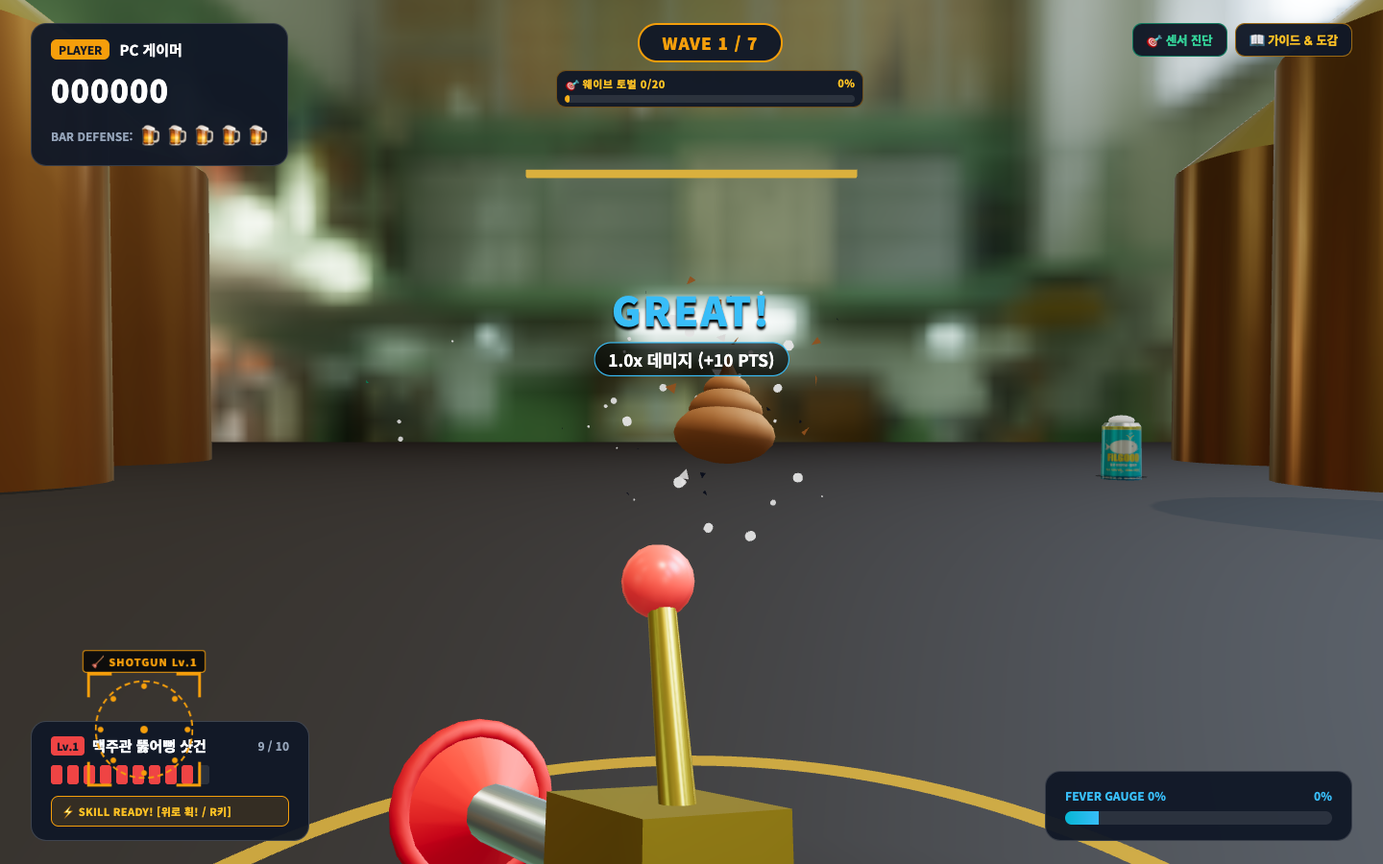
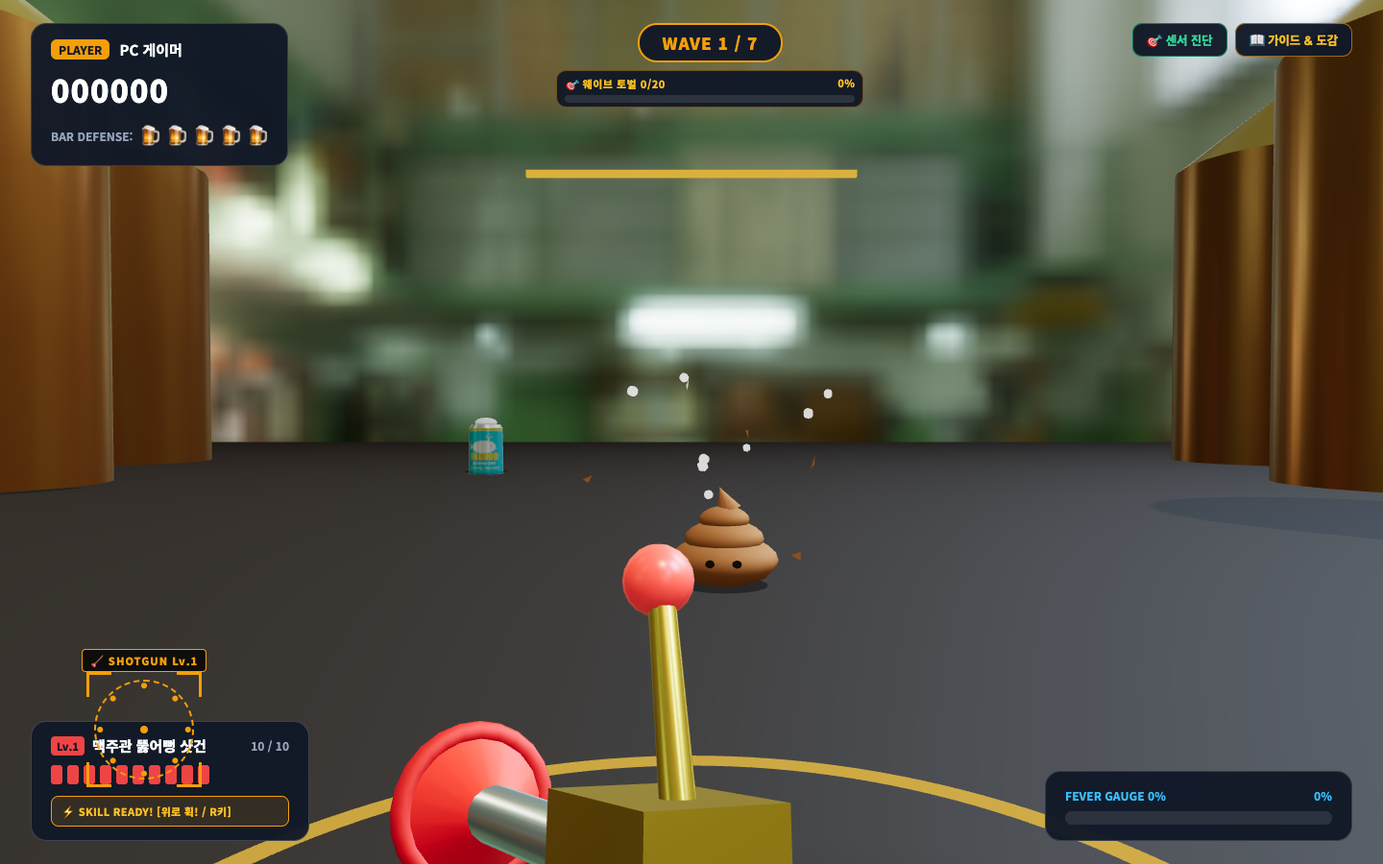
docs(game): describe the new coolers, floor shells, warning band and hit flash
Plan: 2026-11-05-playtest-visual-feedback
Phase: P03-docs-and-verify
Task: T01-docs-and-capture

- Sync the guide, docs and monster studio with the final behaviour
- Refresh only the affected screenshots and guard against the old wording

diff --git a/docs/monster-studio.html b/docs/monster-studio.html
@@ -202,49 +202,89 @@
         const billboard = new THREE.Mesh(billboardGeo, billboardMat);
         billboard.position.y = 0.10;
         g.add(billboard);
-      } else if (kind === 'boss') {
-        const r = 0.88;
-        const h = 1.8;
-        const bodyMat = new THREE.MeshStandardMaterial({ color: 0x334155, metalness: 0.82, roughness: 0.28 });
-        const panelTex = loadLabelTex('boss');
-        const panelMat = new THREE.MeshStandardMaterial({ map: panelTex, metalness: 0.45, roughness: 0.3 });
+      } else if (kind === 'boss' || kind === 'boss-king') {
+        // 게임 모델(TargetModels3D.ts)과 같은 치수: 세로로 긴 몸통 앞면에 탭, 소형은 은색 1구, 대왕은 검정 3구와 왕관.
+        const isKing = kind === 'boss-king';
+        const W = 1.3, H = 1.75, D = 1.2;
+        const cy = 0;
+        const floorY = cy - H / 2;
+        const bodyMat = new THREE.MeshStandardMaterial(isKing
+          ? { color: 0x17191d, metalness: 0.55, roughness: 0.42 }
+          : { color: 0xc4cad2, metalness: 0.75, roughness: 0.32 });
+        const topMat = new THREE.MeshStandardMaterial({ color: 0x3a4048, metalness: 0.6, roughness: 0.4 });
+        const body = new THREE.Mesh(new THREE.BoxGeometry(W, H, D), [bodyMat, bodyMat, topMat, bodyMat, bodyMat, bodyMat]);
+        body.position.y = cy;
+        g.add(body);
 
-        const cabinet = new THREE.Mesh(
-          new THREE.BoxGeometry(r * 1.8, h * 0.82, r * 1.4),
-          [bodyMat, bodyMat, capMat, bodyMat, panelMat, bodyMat]
-        );
-        g.add(cabinet);
-
-        const grille = new THREE.Mesh(new THREE.BoxGeometry(r * 1.5, h * 0.22, 0.06), new THREE.MeshStandardMaterial({ color: 0x050810, roughness: 0.95 }));
-        grille.position.set(0, -h * 0.24, r * 0.71);
-        g.add(grille);
-
-        const tower = new THREE.Mesh(new THREE.CylinderGeometry(0.2, 0.24, 0.58, 20), capMat);
-        tower.position.set(0, h * 0.41 + 0.28, 0);
-        g.add(tower);
-
-        [-0.15, 0.15].forEach((tapX) => {
-          const tapSpout = new THREE.Mesh(new THREE.CylinderGeometry(0.038, 0.038, 0.26, 12), goldMat);
-          tapSpout.rotation.x = Math.PI / 2;
-          tapSpout.position.set(tapX, h * 0.41 + 0.4, 0.18);
-          g.add(tapSpout);
-
-          const tapHandle = new THREE.Mesh(
-            new THREE.CylinderGeometry(0.028, 0.02, 0.3, 12),
-            new THREE.MeshStandardMaterial({ color: 0xf59e0b, metalness: 0.7, roughness: 0.2 })
-          );
-          tapHandle.position.set(tapX, h * 0.41 + 0.56, 0.24);
-          tapHandle.rotation.x = -0.22;
-          g.add(tapHandle);
+        const slitMat = new THREE.MeshStandardMaterial({ color: 0x050608, roughness: 0.9 });
+        [W / 2 + 0.008, -W / 2 - 0.008].forEach((x) => {
+          [cy + H / 2 - 0.14, floorY + 0.5].forEach((top) => {
+            for (let i = 0; i < 5; i++) {
+              const slit = new THREE.Mesh(new THREE.BoxGeometry(0.015, 0.035, D * 0.55), slitMat);
+              slit.position.set(x, top - i * 0.07, 0);
+              g.add(slit);
+            }
+          });
         });
 
-        const wheelMat = new THREE.MeshStandardMaterial({ color: 0x1f2937, roughness: 0.85 });
-        [[-r * 0.75, -r * 0.55], [r * 0.75, -r * 0.55], [-r * 0.75, r * 0.55], [r * 0.75, r * 0.55]].forEach(([wx, wz]) => {
-          const wheel = new THREE.Mesh(new THREE.CylinderGeometry(0.08, 0.08, 0.09, 14), wheelMat);
-          wheel.rotation.z = Math.PI / 2;
-          wheel.position.set(wx, -h * 0.41 - 0.05, wz);
-          g.add(wheel);
+        const leverMat = isKing ? goldMat : new THREE.MeshStandardMaterial({ color: 0x0a0a0a, metalness: 0.1, roughness: 0.5 });
+        const k = isKing ? 1.3 : 1.6;
+        const tapY = cy + 0.46;
+        (isKing ? [-0.34, 0, 0.34] : [0]).forEach((x) => {
+          const collar = new THREE.Mesh(new THREE.CylinderGeometry(0.06 * k, 0.06 * k, 0.1 * k, 14), capMat);
+          collar.rotation.x = Math.PI / 2;
+          collar.position.set(x, tapY, D / 2 + 0.05 * k);
+          g.add(collar);
+          const tapBody = new THREE.Mesh(new THREE.CylinderGeometry(0.055 * k, 0.05 * k, 0.2 * k, 14), capMat);
+          tapBody.position.set(x, tapY - 0.01 * k, D / 2 + 0.14 * k);
+          g.add(tapBody);
+          const spout = new THREE.Mesh(new THREE.CylinderGeometry(0.03 * k, 0.022 * k, 0.16 * k, 10), capMat);
+          spout.position.set(x, tapY - 0.18 * k, D / 2 + 0.14 * k);
+          g.add(spout);
+          const lever = new THREE.Mesh(new THREE.CylinderGeometry(0.036 * k, 0.024 * k, 0.34 * k, 12), leverMat);
+          lever.position.set(x, tapY + 0.24 * k, D / 2 + 0.12 * k);
+          lever.rotation.x = -0.22;
+          g.add(lever);
         });
+
+        const trayY = floorY + 0.2;
+        const tray = new THREE.Mesh(new THREE.BoxGeometry(W * 0.86, 0.16, 0.42), new THREE.MeshStandardMaterial({ color: 0x17191d, metalness: 0.55, roughness: 0.42 }));
+        tray.position.set(0, trayY, D / 2 + 0.2);
+        g.add(tray);
+        const grateMat = new THREE.MeshStandardMaterial({ color: 0x9aa3ad, metalness: 0.8, roughness: 0.35 });
+        for (let i = 0; i < 9; i++) {
+          const bar = new THREE.Mesh(new THREE.BoxGeometry(W * 0.74, 0.012, 0.018), grateMat);
+          bar.position.set(0, trayY + 0.085, D / 2 + 0.03 + i * 0.043);
+          g.add(bar);
+        }
+
+        const frame = new THREE.Mesh(new THREE.BoxGeometry(0.66, 0.26, 0.01), isKing ? goldMat : capMat);
+        frame.position.set(0, cy - 0.2, D / 2 + 0.006);
+        g.add(frame);
+        const logoTex = texLoader.load('/textures/labels/ob-logo.jpg');
+        logoTex.colorSpace = THREE.SRGBColorSpace;
+        const plate = new THREE.Mesh(new THREE.PlaneGeometry(0.6, 0.2), new THREE.MeshStandardMaterial({ map: logoTex, roughness: 0.5 }));
+        plate.position.set(0, cy - 0.2, D / 2 + 0.012);
+        g.add(plate);
+
+        if (isKing) {
+          const R = 0.42, crownY = floorY + H + 0.08;
+          const band = new THREE.Mesh(new THREE.CylinderGeometry(R, R * 0.92, 0.16, 16), goldMat);
+          band.position.y = crownY;
+          g.add(band);
+          const gemMat = new THREE.MeshStandardMaterial({ color: 0xef4444, emissive: 0xef4444, emissiveIntensity: 0.6, roughness: 0.25 });
+          for (let i = 0; i < 8; i++) {
+            const a = (i / 8) * Math.PI * 2;
+            const spike = new THREE.Mesh(new THREE.ConeGeometry(0.095, 0.3, 6), goldMat);
+            spike.position.set(Math.sin(a) * R * 0.9, crownY + 0.22, Math.cos(a) * R * 0.9);
+            g.add(spike);
+            if (i % 2 === 0) {
+              const gem = new THREE.Mesh(new THREE.SphereGeometry(0.05, 10, 10), gemMat);
+              gem.position.set(Math.sin(a) * (R + 0.01), crownY, Math.cos(a) * (R + 0.01));
+              g.add(gem);
+            }
+          }
+        }
       }
 
       return g;
@@ -383,7 +423,8 @@
       obi: { badge: 'TANK · 지상 바운스', name: '오비 라거 (OB Lager)', hp: '2', speed: '3.0 m/s', score: '+70점', color: '#f59e0b' },
       hanmac: { badge: 'ELITE · 지상 바운스', name: '한맥 (HANMAC)', hp: '2', speed: '3.2 m/s', score: '+90점', color: '#047857' },
       bottle: { badge: 'HEAVY · 투명 유리병', name: '카스 프레시 병맥주 (Cass Fresh Bottle)', hp: '3', speed: '2.3 m/s', score: '+160점', color: '#004b91' },
-      boss: { badge: 'BOSS · 보스 레이드', name: '업소용 생맥주 냉각기 (Boss)', hp: '40', speed: '1.10 m/s', score: '+1,500점', color: '#ef4444' }
+      boss: { badge: 'BOSS · 보스 레이드', name: '업소용 생맥주 냉각기 (Boss)', hp: '70~90', speed: '0.85 m/s', score: '+1,500점', color: '#ef4444' },
+      'boss-king': { badge: 'BOSS · 7웨이브', name: '대왕 냉각기 (King)', hp: '200', speed: '0.85 m/s', score: '+1,500점', color: '#fbbf24' }
     };
 
     const ITEM_SPECS = {
@@ -401,8 +442,8 @@
       activeModel.rotation.y = kind === 'bottle' ? 0.0 : 0.35;
       scene.add(activeModel);
 
-      if (kind === 'boss') {
-        camera.position.set(0, 0.6, 5.2);
+      if (kind === 'boss' || kind === 'boss-king') {
+        camera.position.set(0, 0.1, 6.6);
       } else {
         camera.position.set(0, 0.4, 3.6);
       }

diff --git a/src/pc/components/GuideModal.tsx b/src/pc/components/GuideModal.tsx
@@ -92,7 +92,7 @@ const MONSTER_DETAILS: Record<
   boss: {
     role: '보스 · 업소용 냉각기 (3·5·7웨이브, 마지막에 대왕 냉각기)',
     speedText: '0.85 m/s (10m 정지, 좌우 이동)',
-    description: `스테인리스 캐비닛과 듀얼 골드 탭을 장착한 보스. 3웨이브는 1대, 5웨이브는 2대, 7웨이브는 2대 + 대왕 냉각기(1.5배 크기)가 등장합니다. 좌우로 움직이며 체력이 ${GAME_TUNING.boss.summonHpThresholds.map((v) => Math.round(v * 100)).join('% / ')}% 아래로 내려갈 때마다 부하를 소환하고(${GAME_TUNING.boss.summonCount}마리씩 필드 ${GAME_TUNING.boss.minionDrop.minRadiusM}~${GAME_TUNING.boss.minionDrop.maxRadiusM}m에 위에서 떨어집니다. 시간이 아니라 체력 기준이라 빨리 잡아도 소환을 봅니다) 투사체를 쏩니다. 넉백·기절·둔화가 통하지 않습니다.`,
+    description: `앞면에 탭이 달린 업소용 냉각기 보스. 소형은 은색 1구, 대왕은 검정 3구에 금색 왕관을 썼습니다. 3웨이브는 1대, 5웨이브는 2대, 7웨이브는 2대 + 대왕 냉각기(1.5배 크기)가 등장합니다. 좌우로 움직이며 체력이 ${GAME_TUNING.boss.summonHpThresholds.map((v) => Math.round(v * 100)).join('% / ')}% 아래로 내려갈 때마다 부하를 소환하고(${GAME_TUNING.boss.summonCount}마리씩 필드 ${GAME_TUNING.boss.minionDrop.minRadiusM}~${GAME_TUNING.boss.minionDrop.maxRadiusM}m에 위에서 떨어집니다. 시간이 아니라 체력 기준이라 빨리 잡아도 소환을 봅니다) 투사체를 쏩니다. 넉백·기절·둔화가 통하지 않습니다.`,
     tip: '보스 몸통을 맞혀도 피버가 차지 않습니다! 소환된 부하를 잡아 피버와 아이템을 모으세요. 7웨이브는 냉각기와 대왕을 모두 잡아야 승리합니다.',
     imageSrc: '/docs/screens/monster-06-boss-dispenser.png',
   },
@@ -500,7 +500,7 @@ export const GuideModal: React.FC<GuideModalProps> = ({
                 <div style={{ fontSize: '13px', color: '#e2e8f0', lineHeight: '1.6' }}>
                   • <strong>100% 비례 슬림 게이지 체력바:</strong> 모든 몬스터는 100% 비례 연속 게이지 바로 체력이 표시됩니다. 1HP 캔(필굿, 카스라이트)도 스쳐 맞았을 때(hp &lt; maxHp) 즉시 머리 위에 잔여 체력바가 나타납니다!<br />
                   • <strong>🌟 황금 캔 (보너스 타겟):</strong> 웨이브마다 1회 원경을 고속 횡단! 격추 시 +{Math.round(500 * GAME_TUNING.score.scale)}점과 함께 액티브 스킬 1회 충전, 피버 게이지 +{GAME_TUNING.goldenCan.feverGain}%를 받습니다.<br />
-                  • <strong>💩 똥 투사체 요격:</strong> 한맥과 보스가 쏘는 갈색 똥 덩어리(아이템과 달리 빛나지 않고 맞으면 체력이 깎입니다)를 공중에서 사격하면 몬스터처럼 터지며 요격음과 점수를 얻습니다. 놓쳐서 방어선을 통과하면 바 생명이 1 차감됩니다.
+                  • <strong>💩 똥 투사체 요격:</strong> 한맥과 보스가 쏘는 갈색 똥 덩어리(아이템과 달리 빛나지 않고 맞으면 체력이 깎입니다)가 바닥을 따라 다가올 때 사격하면 몬스터처럼 터지며 요격음과 점수를 얻습니다. 놓쳐서 방어선을 통과하면 바 생명이 1 차감됩니다.
                 </div>
               </div>
 

diff --git a/tests/docs-sync.test.ts b/tests/docs-sync.test.ts
@@ -17,6 +17,8 @@ const FORBIDDEN: { pattern: RegExp; why: string }[] = [
   { pattern: /쉴드를 두른|방패가 풀립니다|대왕 쉴드|쉴드를 풀/, why: 'the king shield was removed' },
   { pattern: /붉은 포탄|빛나는 구|거품 투사체|거품\/병뚜껑 투사체/, why: 'enemy shells are brown poop now' },
   { pattern: /8초에서 시작|5초까지 짧아|소환이 빨라져|시간을 끌면 소환/, why: 'boss summons follow boss HP, not a timer' },
+  { pattern: /듀얼 골드 탭|듀얼 탭 레버|크롬 드래프트 타워/, why: 'the coolers have front taps now' },
+  { pattern: /공중에서 (사격|요격)|⚠ 보스 등장/, why: 'shells stay on the floor and the warning is a WARNING band' },
   { pattern: /MISS 페널티 완전 폐지/, why: 'misses now cost ammo and reload time' },
   { pattern: /8초마다 (부하|소환)|부하를 8초마다|4마리를 공유/, why: 'boss summons are HP-driven now, not a shared timer' },
   { pattern: /\+150 PTS|\+100 PTS|\+50 PTS|\+500점|\+1,500점|2배 화력|기본 피해의 3배/, why: 'scores are scaled by GAME_TUNING.score.scale (x0.1) and fever no longer boosts damage' },

diff --git a/docs/비어 크러셔 요구사항 분석서.md b/docs/비어 크러셔 요구사항 분석서.md
@@ -70,11 +70,11 @@
 | :--- | :--- | :--- |
 | **FR-MON-01** | 부채꼴 시야각(반경 28m, -36°~+36°) 전체에서 5종 맥주 몬스터와 보스가 방사형으로 스폰되어 접근해야 한다. 7웨이브에 걸쳐 몬스터 종류가 하나씩 소개되며 섞인다. | Three.js 씬 내 부채꼴 스폰 |
 | **FR-MON-02** | 모든 몬스터 상단에 100% 슬림 연속 체력 게이지 바를 렌더링해야 한다. (단, 1HP 캔은 기본 숨김, 0.5x 피격 등으로 체력이 깎이면 즉시 노출) | 슬림 게이지 바 및 피격 1HP 캔 실시간 노출 |
-| **FR-MON-03** | 3·5·7웨이브는 미니웨이브 후 경고와 함께 냉각기 보스(1대 → 2대 → 2대 + 대왕)가 등장해 전방 10m에 정지하고 좌우로 이동하며, 각 보스가 체력 99·66·33% 아래로 내려갈 때마다 부하 4마리를 소환(시간 기준 아님, 필드 상한 없음)하며, 부하는 필드 6~14m에 위에서 떨어지고 착지 전에는 맞힐 수 없어야 한다. 중간 보스는 처치 후 카드를 거쳐 다음 웨이브로, 마지막 보스전은 모두 처치해야 승리한다. | 보스 10m 정지·이동, 소환, 다중 보스 승리 조건 |
+| **FR-MON-03** | 3·5·7웨이브는 미니웨이브 후 2초 경고(`WARNING` 가로 띠, 빛줄, 경고음)와 함께 냉각기 보스(1대 → 2대 → 2대 + 대왕)가 등장해 전방 10m에 정지하고 좌우로 이동하며, 각 보스가 체력 99·66·33% 아래로 내려갈 때마다 부하 4마리를 소환(시간 기준 아님, 필드 상한 없음)하며, 부하는 필드 6~14m에 위에서 떨어지고 착지 전에는 맞힐 수 없어야 한다. 중간 보스는 처치 후 카드를 거쳐 다음 웨이브로, 마지막 보스전은 모두 처치해야 승리한다. | 보스 10m 정지·이동, 소환, 다중 보스 승리 조건 |
 | **FR-MON-04** | 몬스터 5종은 서로 다른 대응법을 가져야 한다: 필굿(지상 돌격), 카스 라이트(유일한 비행·회피), 오비(방패 0.8초/2.4초, 스킬 관통), 한맥(11m 정지 포격), 병맥주(분열). | `monster-traits` 시나리오 |
 | **FR-GIM-01** | 웨이브 클리어 및 4·6웨이브 중간 킬 수 달성 시 화면 정중앙에 3D 보상 카드 9종 중 중복 없는 무작위 3장을 소환하며, 전장 시간 전체 정지(Combat Freeze, 피버·버프·쿨다운·재장전 포함), 새로 누른 입력만 인정, 0.8초 입력 잠금을 적용해야 한다. 무기 레벨은 웨이브별 상한(1웨이브 Lv.2, 2~4웨이브 Lv.3, 5웨이브부터 MAX)을 둔다. | Combat Freeze 발동 및 Shoot-to-Select |
 | **FR-GIM-02** | 황금 캔 출현 시 맑은 코인 차임 사운드 및 PC 화면 골드 네온 테두리 플래시를 출력해야 한다. | 청각·시각 즉각 알림 |
-| **FR-GIM-03** | 적 투사체(갈색 똥 모양, 발사 순간 분출 연출)를 요격하면 성공 시 투사체가 몬스터처럼 파티클과 함께 터지고 요격음이 재생되어야 한다(별도 배너 없음). | 요격 전용 피드백 제공 |
+| **FR-GIM-03** | 적 투사체(갈색 똥 모양, 발사 순간 분출 연출, 바닥에 붙어 위아래로 늘고 줄며 접근)를 요격하면 성공 시 투사체가 몬스터처럼 파티클과 함께 터지고 요격음이 재생되어야 한다(별도 배너 없음). | 요격 전용 피드백 제공 |
 | **FR-GIM-04** | 일반 몬스터 처치 시 4%(보스 소환 부하 20%) 기본 확률로 바닥에 펍 아이템 4종(파워샷/빅스코프/프리즈/바수리)을 즉시 드롭해야 한다. (`lucky_drop` 카드 시 2배/3배/4배 영구 증가) | 몬스터 처치 시 드롭 확률 및 카드 시너지 |
 
 ---

diff --git a/docs/몬스터_도감_설명서.md b/docs/몬스터_도감_설명서.md
@@ -56,10 +56,11 @@
 
 #### 6. 업소용 생맥주 냉각기 보스 (Boss Dispenser) — *3·5·7웨이브 보스전*
 ![업소용 생맥주 냉각기 보스](./screens/monster-06-boss-dispenser.png)
+![대왕 냉각기](./screens/monster-06b-boss-king.png)
 ![냉각기 보스 실전 화면](./screens/play-wave5-boss-cooler.png)
 - **타입**: 지상 캐비닛 보스 (Ground Boss, 고도 `1.15m`, 1.65배 거대 스케일)
-- **외형**: 브러시드 스테인리스 헤어라인 전면 패널, 그린 디지털 LED(-4.0°C / 2.4 BAR), 크롬 드래프트 타워, 듀얼 골드 탭 추출구 및 오렌지 레버, 하단 4개 캐스터 휠
-- **보스전 구성**: 미니웨이브를 처치하면 `⚠ 보스 등장!` 경고와 함께 등장합니다.
+- **외형**: 실제 업소용 순간냉각기처럼 세로로 긴 몸통 앞면에 탭, 아래에 검정 물받이, 옆면에 통풍구, 앞면에 OB 로고 이름판. 소형 냉각기는 은색 몸통에 검정 레버 탭 1구, 대왕 냉각기는 검정 몸통에 금색 레버 탭 3구와 금색 왕관
+- **보스전 구성**: 미니웨이브를 처치하면 경고음과 함께 빛줄이 훑고 지나가는 `WARNING` 가로 띠가 2초 동안 나타났다 사라지며 등장합니다.
   | 웨이브 | 구성 | 체력 | 소환 부하 |
   | :---: | :--- | :--- | :--- |
   | 3 | 냉각기 1대 | 75 | 오비, 카스 라이트, 한맥 |
@@ -151,6 +152,6 @@
 1. **100% 슬림 연속 체력 게이지 바 확인**: 모든 몬스터 머리 위에 100% 비례 슬림 게이지 바가 표시됩니다. 스쳐 맞은 1HP 캔도 즉시 체력바가 나타나므로 잔여 체력을 확인하고 마무리 사격을 가하세요. 남은 체력과 기절(`⚡STUN`) / 둔화(`❄SLOW`) 상태를 확인하고 점사하세요.
 2. **🌟 황금 캔(Golden Can) 필살 저격**: 웨이브마다 1회 고속 횡단하는 황금 캔(스폰 시 코인 차임 사운드 & 골드 네온 테두리)을 격추하여 **+50점 보너스**, **스킬 1회 충전**, **피버 +30%**를 노리세요.
 ![황금 캔 출현 및 골드 네온 테두리 화면](./screens/play-golden-can-detected.png)
-3. **💩 똥 투사체 요격**: 한맥과 보스가 날리는 갈색 똥 투사체를 공중에서 요격(몬스터처럼 터지며 요격음)하여 방어선 생명(맥주잔 5개)을 보존하세요.
+3. **💩 똥 투사체 요격**: 한맥과 보스가 날리는 바닥을 따라 다가오는 갈색 똥 투사체를 요격(몬스터처럼 터지며 요격음)하여 방어선 생명(맥주잔 5개)을 보존하세요.
 4. **홀드 자동 연발과 피버 활용**: 누르고 쏘는 자동 연발은 피해가 줄어드니, 정확한 탭 사격으로 PERFECT와 처치를 쌓아 피버를 채우고 4초 무한 연사로 웨이브를 돌파하세요.
 4. **무기별 전술 운용**: 몬스터의 밀집도와 비행 형태에 따른 3종 무기 진화 및 스킬 공략은 [docs/무기_및_스킬_가이드.md](./무기_및_스킬_가이드.md)를 참고하세요.

diff --git a/docs/비어 크러셔 상세설계서.md b/docs/비어 크러셔 상세설계서.md
@@ -568,6 +568,7 @@ export class WeaponSystem {
    - `BeerCrusherEngine.spawnGoldenCanTarget` 실행 시 `SoundSynthesizer.playGoldenCanChime()` 및 화면 사방 골드 네온 플래시를 동기화합니다.
 2. **투사체 요격**:
    - `shootAt`에서 `target.isProjectile === true`인 타겟 적중 시 요격 이벤트 플래그(`interceptedProjectile: true`)를 반환하여 투사체를 파티클과 함께 폭발시키고 요격음을 재생합니다(배너 없음).
+   - 투사체는 바닥 높이(`GAME_TUNING.shell.baseY`)에 있고 고정 화면 높이(`customNormY`)를 쓰지 않아, 판정 위치가 보이는 모델을 따라갑니다.
 3. **보상 카드 9종 (Shoot-to-Select) & Combat Freeze**:
    - 웨이브 클리어 및 4·6웨이브 중간 킬 수(22/26) 달성 시 전장 전체에 시간 정지(Combat Freeze)를 발동합니다. `update`는 피버·버프·재장전·스폰/소환 타이머·몬스터 기절/둔화·한맥 발사 타이머를 실제 경과 시간만큼 뒤로 밀고(`freezeTimers`) 일찍 반환하며, 스킬 쿨다운은 `weaponSystem.update`를 건너뛰어 멈춥니다. 이 동안 `activateFever`/`triggerWeaponSkill`도 막힙니다.
    - 카드는 `buildRewardCardPool()`이 만든 풀(무기 상한·최대 스택·체력 가득·피버 상태 반영)에서 `dropRng`로 중복 없이 3장을 뽑습니다(`weapon_level_up`, `rapid_reload`, `bar_repair`(+2), `fever_boost`(+50), `lucky_drop`, `damage_up`, `skill_cooldown`, `fever_extend`, `hit_zone_up`). 풀이 3장 미만이면 수리·부스터·장전으로 채웁니다.

diff --git a/docs/무기_및_스킬_가이드.md b/docs/무기_및_스킬_가이드.md
@@ -183,7 +183,7 @@
   - **스폰 즉각 감지 알림**: 출현 순간 맑은 코인 차임 사운드(`playGoldenCanChime`, 1318Hz ➔ 1661Hz)와 함께 PC 화면 테두리에 황금빛 네온 테두리 알림이 점등되어 시야가 좁아진 플레이어도 놓치지 않고 포착할 수 있습니다.
   - 격추 성공 시 **+50점 보너스**와 **스킬 1회 충전, 피버 게이지 +30%**를 받습니다(피버를 한 번에 채우지는 않습니다).
 - **💩 똥 투사체 요격 (Interception)**:
-  - 한맥과 보스가 플레이어 방어선을 향해 날리는 갈색 똥 투사체(발사 순간 갈색 분출이 나오고, 아이템과 달리 빛나지 않습니다)를 공중에서 사격하여 격추할 수 있습니다.
+  - 한맥과 보스가 플레이어 방어선을 향해 날리는 갈색 똥 투사체(발사 순간 갈색 분출이 나오고, 아이템과 달리 빛나지 않습니다)가 바닥을 따라 다가올 때 사격하여 격추할 수 있습니다.
   - 요격 성공 시 투사체가 몬스터처럼 파티클과 함께 터지고 요격 전용 SFX가 재생됩니다(별도 배너 없음). 점수는 그대로 오릅니다.
 - **🔥 4초 피버 (무제한 탄창 & 명중 점수 1.5배)**:
   - 피버 발동 즉시 현재 잔탄 수(0발)나 재장전 딜레이를 무시하고 **즉시 탄창이 100% 강제 리필**되며 `isReloading = false`로 즉시 난사가 개시됩니다.

diff --git a/.memory/phases/2026-11-05-playtest-visual-feedback/P03-docs-and-verify/T01-docs-and-capture.md b/.memory/phases/2026-11-05-playtest-visual-feedback/P03-docs-and-verify/T01-docs-and-capture.md
@@ -1,6 +1,6 @@
 # Task: T01 문서, 가이드, 도감 도구, 스크린샷 갱신
 
-## Status: pending
+## Status: done
 
 ## Goal
 플레이어 안내와 문서가 새 냉각기, 바닥 똥, 경고 띠, 피격 효과를 그대로 설명하고, 옛 설명이 다시 들어오지 못하게 막는다.
@@ -51,9 +51,9 @@
 - 검사 파일에 무기 가이드도 포함되지만 "듀얼 고압관", "듀얼 드럼통"은 패턴에 걸리지 않는다.
 
 ## Acceptance Criteria
-- [ ] 문서와 가이드에 옛 표현이 없고 `docs-sync` 테스트가 통과한다.
-- [ ] 도감 사진에 새 소형·대왕이 나오고, 경고 띠·똥 장면 사진이 실제 화면이다.
-- [ ] 다른 스크린샷은 바뀌지 않는다(`git status`로 확인).
+- [x] 문서와 가이드에 옛 표현이 없고 `docs-sync` 테스트가 통과한다.
+- [x] 도감 사진에 새 소형·대왕이 나오고, 경고 띠·똥 장면 사진이 실제 화면이다.
+- [x] 다른 스크린샷은 바뀌지 않는다(`git status`로 확인).
 
 ## Validation
 - `npx vitest run tests/docs-sync.test.ts` — 통과
@@ -74,6 +74,6 @@ Co-Authored-By: Claude Opus 5.5 <noreply@anthropic.com>
 ```
 
 ## Progress
-- [ ] 구현 완료
-- [ ] 검증 통과
+- [x] 구현 완료
+- [x] 검증 통과
 - commit: pending

diff --git a/.memory/phases/2026-11-05-playtest-visual-feedback/P03-docs-and-verify/phase.md b/.memory/phases/2026-11-05-playtest-visual-feedback/P03-docs-and-verify/phase.md
@@ -3,8 +3,8 @@
 ## Tasks
 | Task | Status | Summary | Blueprint |
 | :--- | :--- | :--- | :--- |
-| T01 | `pending` | 문서, 가이드, 도감 도구, 스크린샷 갱신 | [T01](./T01-docs-and-capture.md) |
-| T02 | `pending` | 자동 검증과 사람 직접 플레이 | [T02](./T02-final-verification-and-playtest.md) |
+| T01 | `done ✅` | 문서, 가이드, 도감 도구, 스크린샷 갱신 | [T01](./T01-docs-and-capture.md) |
+| T02 | `in_progress 🔵` | 자동 검증과 사람 직접 플레이 | [T02](./T02-final-verification-and-playtest.md) |
 
 ## Progress
-- done: 0/2 (active: 없음, P02 뒤 시작)
+- done: 1/2 (active: T02)
